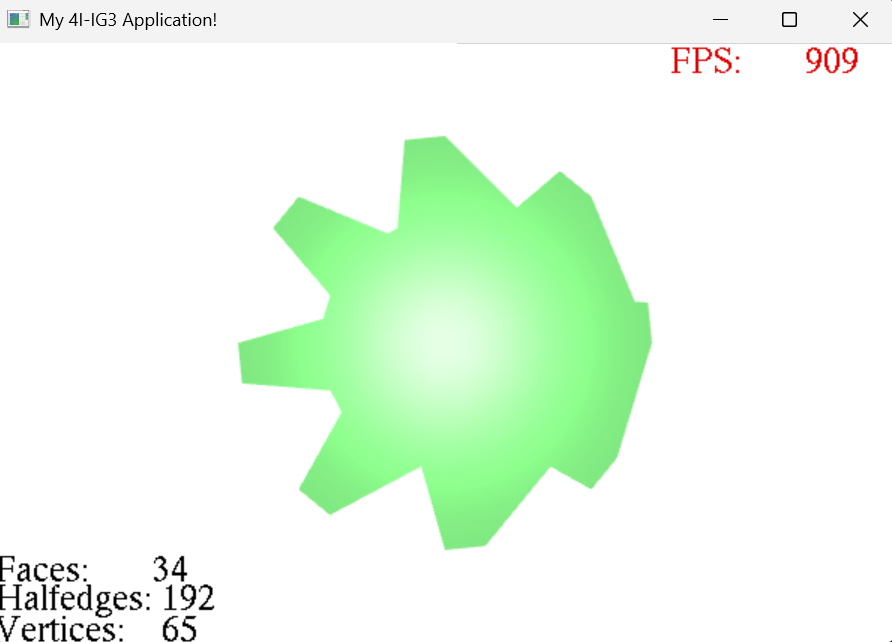
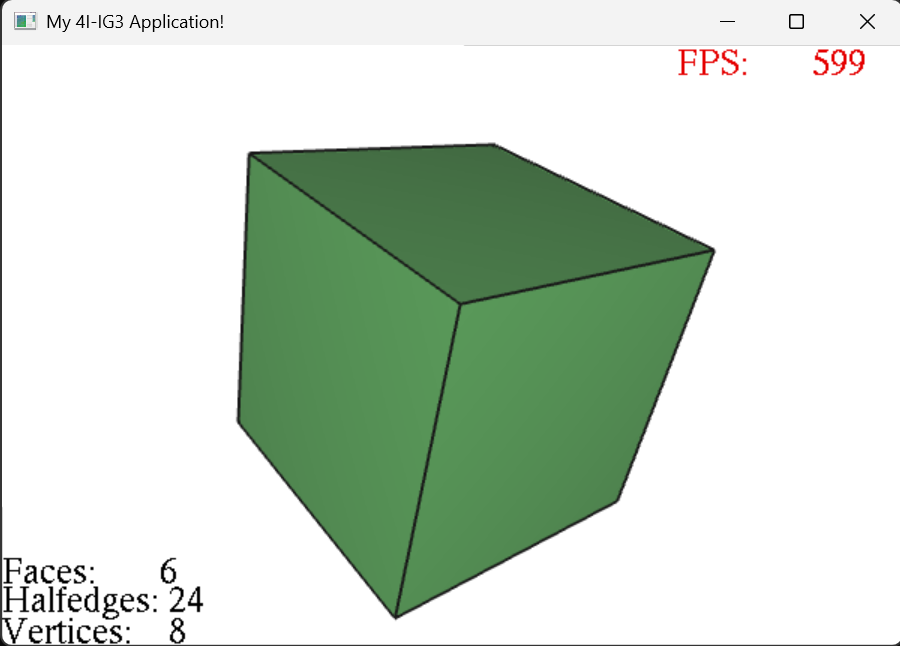
probleme calcul vertex points catmull-clark

diff --git a/myproj/myMesh.cpp b/myproj/myMesh.cpp
@@ -614,58 +614,94 @@ void myMesh::subdivisionCatmullClark()
 	}
 
 	//vertex points
-	for (myVertex* v : oldVertices)
+	for (unsigned int i = 0; i < oldVertices.size(); i++)
 	{
-		if (!v) continue;
+		myVertex* v = oldVertices[i];
+
+		if (v == NULL)
+			continue;
 
 		myVertex* nv = new myVertex();
-		vertexMap[v] = nv; 
+		vertexMap[v] = nv;
 
-		if (!v->originof) { // Sécurité pour les sommets déconnectés
-			nv->point = new myPoint3D(v->point->X, v->point->Y, v->point->Z);
+		// sécurité
+		if (v->originof == NULL)
+		{
+			nv->point = new myPoint3D(
+				v->point->X,
+				v->point->Y,
+				v->point->Z
+			);
 			continue;
 		}
 
-		double Fx = 0, Fy = 0, Fz = 0;
-		double Rx = 0, Ry = 0, Rz = 0;
+		double Fx = 0.0;
+		double Fy = 0.0;
+		double Fz = 0.0;
+
+		double Rx = 0.0;
+		double Ry = 0.0;
+		double Rz = 0.0;
+
 		int n = 0;
 
 		myHalfedge* start = v->originof;
 		myHalfedge* h = start;
-		bool valid = true;
 
-		do {
-			if (!h || !h->twin || !h->adjacent_face) { valid = false; break; }
+		do
+		{
+			if (h == NULL || h->twin == NULL || h->adjacent_face == NULL)
+				break;
 
-			Fx += facePoint[h->adjacent_face]->point->X;
-			Fy += facePoint[h->adjacent_face]->point->Y;
-			Fz += facePoint[h->adjacent_face]->point->Z;
+			// face Points
+			myVertex* fp = facePoint[h->adjacent_face];
 
-			myVertex* v2 = h->twin->source;
-			Rx += v2->point->X; Ry += v2->point->Y; Rz += v2->point->Z;
+			Fx += fp->point->X;
+			Fy += fp->point->Y;
+			Fz += fp->point->Z;
+
+			// edge Midpoints
+			myVertex* neighbour = h->twin->source;
+
+			Rx += (v->point->X + neighbour->point->X) * 0.5;
+			Ry += (v->point->Y + neighbour->point->Y) * 0.5;
+			Rz += (v->point->Z + neighbour->point->Z) * 0.5;
 
 			n++;
+
 			h = h->twin->next;
 
-		} while (h && h != start);
+		} while (h != start);
 
-		if (n > 0 && valid) {
-			Fx /= n; Fy /= n; Fz /= n;
-			Rx /= n; Ry /= n; Rz /= n;
-
-			double Px = v->point->X;
-			double Py = v->point->Y;
-			double Pz = v->point->Z;
-
+		if (n == 0)
+		{
 			nv->point = new myPoint3D(
-				(Fx + 2.0 * Rx + (n - 3.0) * Px) / n,
-				(Fy + 2.0 * Ry + (n - 3.0) * Py) / n,
-				(Fz + 2.0 * Rz + (n - 3.0) * Pz) / n
+				v->point->X,
+				v->point->Y,
+				v->point->Z
 			);
+			continue;
 		}
-		else {
-			nv->point = new myPoint3D(v->point->X, v->point->Y, v->point->Z);
-		}
+
+		// moyennes
+		Fx /= n;
+		Fy /= n;
+		Fz /= n;
+
+		Rx /= n;
+		Ry /= n;
+		Rz /= n;
+
+		double Px = v->point->X;
+		double Py = v->point->Y;
+		double Pz = v->point->Z;
+
+		// formule Catmull-Clark
+		double newX = (Fx + 2.0 * Rx + (n - 3.0) * Px) / n;
+		double newY = (Fy + 2.0 * Ry + (n - 3.0) * Py) / n;
+		double newZ = (Fz + 2.0 * Rz + (n - 3.0) * Pz) / n;
+
+		nv->point = new myPoint3D(newX, newY, newZ);
 	}
 
 	//reconnexion par quadrilateres
